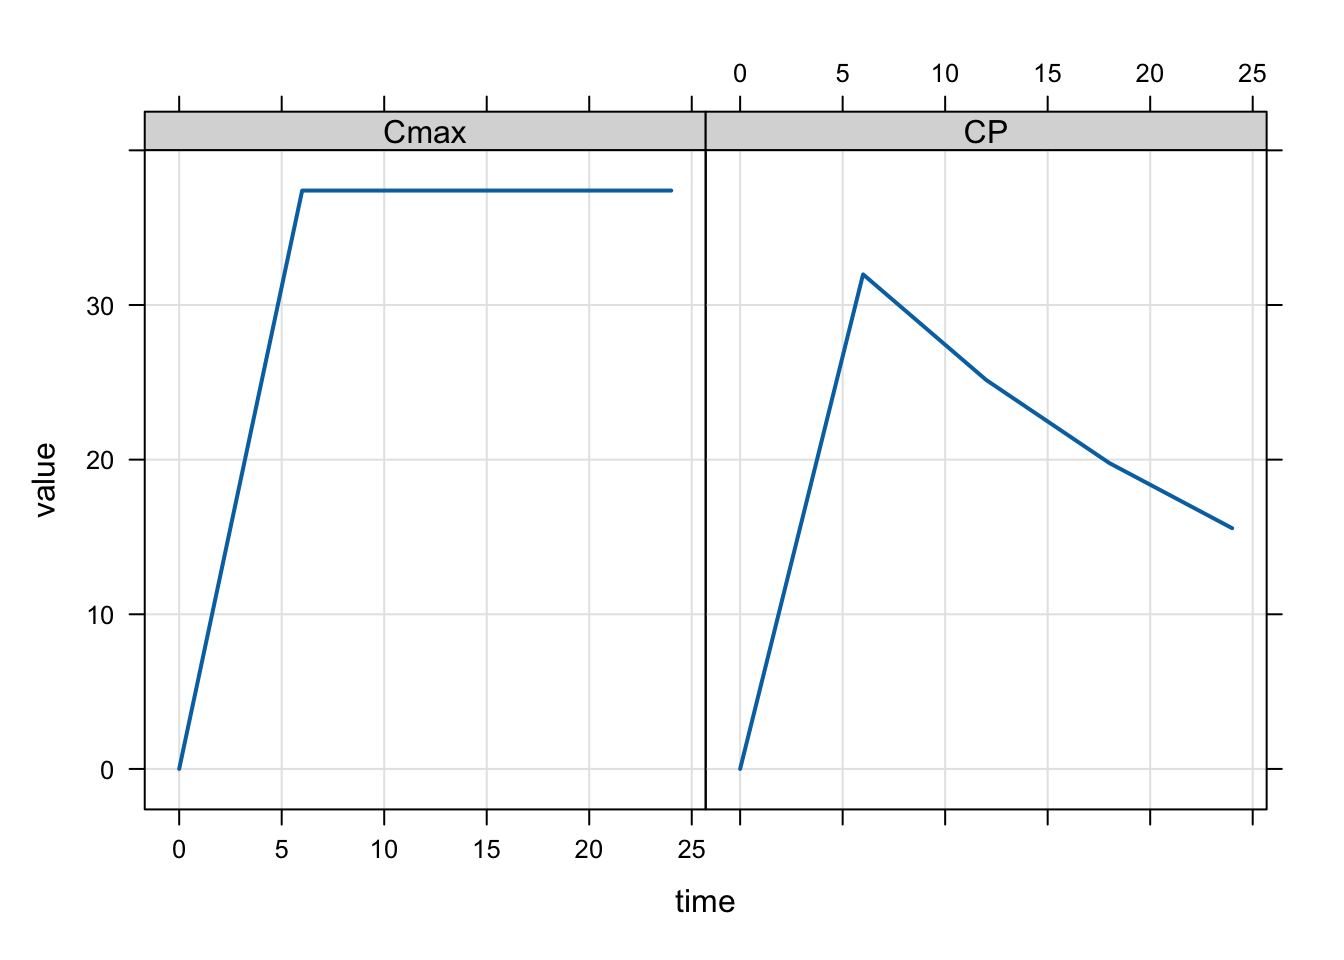
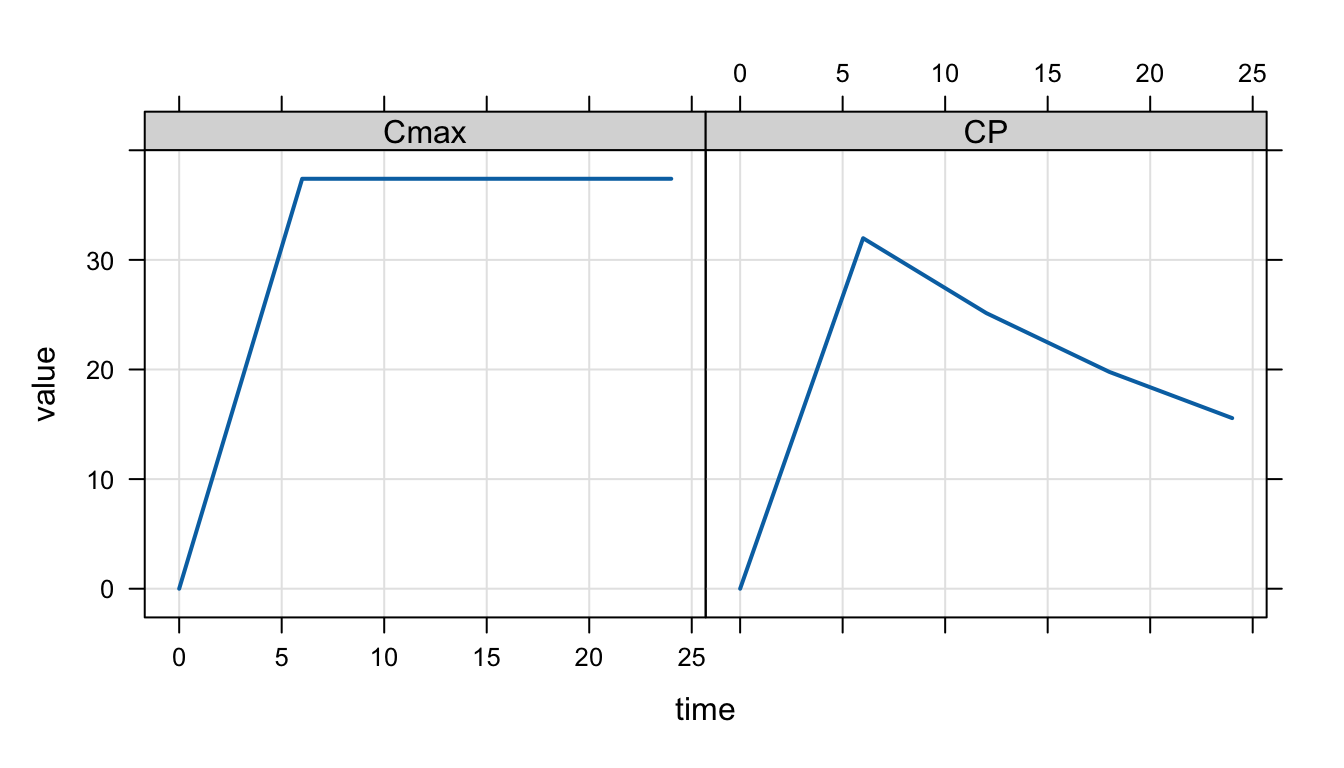
fix approx error calculation

diff --git a/docs/posts/true-cmax.html b/docs/posts/true-cmax.html
@@ -123,11 +123,11 @@ background: #097f5f;
 <link rel="stylesheet" href="../styles.css">
 <meta property="og:title" content="Simulate true Cmax with ODE – mrgsolve/blog">
 <meta property="og:description" content="This post outlines some considerations when simulating a true Cmax in your PK model using differential equations.">
-<meta property="og:image" content="https://mrgsolve.org/blog/images/preview.png">
+<meta property="og:image" content="true-cmax_files/figure-html/visualize-overshoot-1.png">
 <meta property="og:site_name" content="mrgsolve/blog">
 <meta name="twitter:title" content="Simulate true Cmax with ODE – mrgsolve/blog">
 <meta name="twitter:description" content="This post outlines some considerations when simulating a true Cmax in your PK model using differential equations.">
-<meta name="twitter:image" content="https://mrgsolve.org/blog/images/preview.png">
+<meta name="twitter:image" content="true-cmax_files/figure-html/visualize-overshoot-1.png">
 <meta name="twitter:card" content="summary_large_image">
 </head>
 
@@ -308,9 +308,9 @@ background: #097f5f;
 <span id="cb1-12"><a href="#cb1-12" aria-hidden="true" tabindex="-1"></a>}</span>
 <span id="cb1-13"><a href="#cb1-13" aria-hidden="true" tabindex="-1"></a></span>
 <span id="cb1-14"><a href="#cb1-14" aria-hidden="true" tabindex="-1"></a><span class="sc">$</span>DES</span>
-<span id="cb1-15"><a href="#cb1-15" aria-hidden="true" tabindex="-1"></a>CP <span class="ot">=</span> A2<span class="sc">/</span>V;</span>
+<span id="cb1-15"><a href="#cb1-15" aria-hidden="true" tabindex="-1"></a>CPode <span class="ot">=</span> A2<span class="sc">/</span>V;</span>
 <span id="cb1-16"><a href="#cb1-16" aria-hidden="true" tabindex="-1"></a></span>
-<span id="cb1-17"><a href="#cb1-17" aria-hidden="true" tabindex="-1"></a><span class="cf">if</span>(CP <span class="sc">&gt;</span> Cmax) Cmax <span class="ot">=</span> CP;</span>
+<span id="cb1-17"><a href="#cb1-17" aria-hidden="true" tabindex="-1"></a><span class="cf">if</span>(CPode <span class="sc">&gt;</span> Cmax) Cmax <span class="ot">=</span> CPode;</span>
 <span id="cb1-18"><a href="#cb1-18" aria-hidden="true" tabindex="-1"></a></span>
 <span id="cb1-19"><a href="#cb1-19" aria-hidden="true" tabindex="-1"></a>dxdt_A1 <span class="ot">=</span> <span class="sc">-</span>KA <span class="sc">*</span> A1;</span>
 <span id="cb1-20"><a href="#cb1-20" aria-hidden="true" tabindex="-1"></a>dxdt_A2 <span class="ot">=</span>  KA <span class="sc">*</span> A1 <span class="sc">-</span> (CL<span class="sc">/</span>V)<span class="sc">*</span>A2;</span>
@@ -336,14 +336,14 @@ background: #097f5f;
 <div class="sourceCode cell-code" id="cb3"><pre class="sourceCode r code-with-copy"><code class="sourceCode r"><span id="cb3-1"><a href="#cb3-1" aria-hidden="true" tabindex="-1"></a>dose <span class="ot">&lt;-</span> <span class="fu">ev</span>(<span class="at">amt =</span> <span class="dv">1000</span>, <span class="at">cmt =</span> <span class="dv">1</span>)</span></code><button title="Copy to Clipboard" class="code-copy-button"><i class="bi"></i></button></pre></div>
 </div>
 <p>On simulation, we can check the maximum value of <code>CP</code> (calculated only at output records) and <code>Cmax</code> (calculated with the code in <code>$DES</code>).</p>
-<div class="cell">
+<div class="cell" data-layout-align="center">
 <div class="sourceCode cell-code" id="cb4"><pre class="sourceCode r code-with-copy"><code class="sourceCode r"><span id="cb4-1"><a href="#cb4-1" aria-hidden="true" tabindex="-1"></a>out <span class="ot">&lt;-</span> <span class="fu">mrgsim</span>(mod, dose)</span>
 <span id="cb4-2"><a href="#cb4-2" aria-hidden="true" tabindex="-1"></a></span>
 <span id="cb4-3"><a href="#cb4-3" aria-hidden="true" tabindex="-1"></a><span class="fu">plot</span>(out, <span class="at">scales =</span> <span class="st">"same"</span>)</span></code><button title="Copy to Clipboard" class="code-copy-button"><i class="bi"></i></button></pre></div>
 <div class="cell-output-display">
-<div>
+<div class="quarto-figure quarto-figure-center">
 <figure class="figure">
-<p><img src="true-cmax_files/figure-html/unnamed-chunk-4-1.png" class="img-fluid figure-img" width="672"></p>
+<p><img src="true-cmax_files/figure-html/unnamed-chunk-4-1.png" class="img-fluid quarto-figure quarto-figure-center figure-img" width="672"></p>
 </figure>
 </div>
 </div>
@@ -378,20 +378,21 @@ background: #097f5f;
 </div>
 </div>
 <p>Here, we see good agreement with the approximated Cmax and the true Cmax.</p>
-<p>But we don’t <em>need</em> to go to these lengths; we can get a good approximation of Cmax just by reducing <code>delta</code> to a reasonably small value.</p>
+<p>But we don’t <em>need</em> to go to these lengths; we can get a good approximation of Cmax from <code>CP</code> just by reducing <code>delta</code> to a reasonably small value.</p>
 <div class="cell">
 <div class="sourceCode cell-code" id="cb13"><pre class="sourceCode r code-with-copy"><code class="sourceCode r"><span id="cb13-1"><a href="#cb13-1" aria-hidden="true" tabindex="-1"></a>out3 <span class="ot">&lt;-</span> <span class="fu">mrgsim</span>(mod, dose, <span class="at">delta =</span> <span class="fl">0.1</span>)</span>
 <span id="cb13-2"><a href="#cb13-2" aria-hidden="true" tabindex="-1"></a></span>
-<span id="cb13-3"><a href="#cb13-3" aria-hidden="true" tabindex="-1"></a>true <span class="ot">&lt;-</span> <span class="fu">max</span>(out3<span class="sc">$</span>Cmax)</span>
-<span id="cb13-4"><a href="#cb13-4" aria-hidden="true" tabindex="-1"></a>approx <span class="ot">&lt;-</span> <span class="fu">max</span>(out3<span class="sc">$</span>CP)</span>
-<span id="cb13-5"><a href="#cb13-5" aria-hidden="true" tabindex="-1"></a></span>
-<span id="cb13-6"><a href="#cb13-6" aria-hidden="true" tabindex="-1"></a>approx</span></code><button title="Copy to Clipboard" class="code-copy-button"><i class="bi"></i></button></pre></div>
+<span id="cb13-3"><a href="#cb13-3" aria-hidden="true" tabindex="-1"></a>approx <span class="ot">&lt;-</span> <span class="fu">max</span>(out3<span class="sc">$</span>CP)</span>
+<span id="cb13-4"><a href="#cb13-4" aria-hidden="true" tabindex="-1"></a></span>
+<span id="cb13-5"><a href="#cb13-5" aria-hidden="true" tabindex="-1"></a>approx</span></code><button title="Copy to Clipboard" class="code-copy-button"><i class="bi"></i></button></pre></div>
 <div class="cell-output cell-output-stdout">
 <pre><code>[1] 37.39822</code></pre>
 </div>
-<div class="sourceCode cell-code" id="cb15"><pre class="sourceCode r code-with-copy"><code class="sourceCode r"><span id="cb15-1"><a href="#cb15-1" aria-hidden="true" tabindex="-1"></a><span class="dv">100</span><span class="sc">*</span>(approx<span class="sc">-</span>true)<span class="sc">/</span>true</span></code><button title="Copy to Clipboard" class="code-copy-button"><i class="bi"></i></button></pre></div>
+<div class="sourceCode cell-code" id="cb15"><pre class="sourceCode r code-with-copy"><code class="sourceCode r"><span id="cb15-1"><a href="#cb15-1" aria-hidden="true" tabindex="-1"></a>true_bolus <span class="ot">&lt;-</span> <span class="fu">max</span>(out2<span class="sc">$</span>Cmax)</span>
+<span id="cb15-2"><a href="#cb15-2" aria-hidden="true" tabindex="-1"></a></span>
+<span id="cb15-3"><a href="#cb15-3" aria-hidden="true" tabindex="-1"></a><span class="dv">100</span> <span class="sc">*</span> (approx <span class="sc">-</span> true_bolus) <span class="sc">/</span> true_bolus</span></code><button title="Copy to Clipboard" class="code-copy-button"><i class="bi"></i></button></pre></div>
 <div class="cell-output cell-output-stdout">
-<pre><code>[1] -0.001707791</code></pre>
+<pre><code>[1] -0.001783364</code></pre>
 </div>
 </div>
 <p>But note this is likely problem-dependent: a smaller <code>delta</code> value may be required for a good approximation in certain problems. But I find this approach works well for most situations.</p>
@@ -421,12 +422,13 @@ background: #097f5f;
 <pre><code>      time       CP
 1 6.711409 35.08074</code></pre>
 </div>
+<div class="sourceCode cell-code" id="cb22"><pre class="sourceCode r code-with-copy"><code class="sourceCode r"><span id="cb22-1"><a href="#cb22-1" aria-hidden="true" tabindex="-1"></a>true_infusion <span class="ot">&lt;-</span> <span class="fu">max</span>(out<span class="sc">$</span>CP)</span></code><button title="Copy to Clipboard" class="code-copy-button"><i class="bi"></i></button></pre></div>
 </div>
 <p>But what happens when we assess Cmax with our code in <code>$DES</code>? We see that the reported Cmax is <em>higher</em> than the true Cmax.</p>
 <div class="cell">
-<div class="sourceCode cell-code" id="cb22"><pre class="sourceCode r code-with-copy"><code class="sourceCode r"><span id="cb22-1"><a href="#cb22-1" aria-hidden="true" tabindex="-1"></a>out <span class="ot">&lt;-</span> <span class="fu">mrgsim</span>(mod, <span class="at">event =</span> dose)</span>
-<span id="cb22-2"><a href="#cb22-2" aria-hidden="true" tabindex="-1"></a></span>
-<span id="cb22-3"><a href="#cb22-3" aria-hidden="true" tabindex="-1"></a><span class="fu">max</span>(out<span class="sc">$</span>Cmax) <span class="co"># Max concentration from $DES</span></span></code><button title="Copy to Clipboard" class="code-copy-button"><i class="bi"></i></button></pre></div>
+<div class="sourceCode cell-code" id="cb23"><pre class="sourceCode r code-with-copy"><code class="sourceCode r"><span id="cb23-1"><a href="#cb23-1" aria-hidden="true" tabindex="-1"></a>out <span class="ot">&lt;-</span> <span class="fu">mrgsim</span>(mod, <span class="at">event =</span> dose)</span>
+<span id="cb23-2"><a href="#cb23-2" aria-hidden="true" tabindex="-1"></a></span>
+<span id="cb23-3"><a href="#cb23-3" aria-hidden="true" tabindex="-1"></a><span class="fu">max</span>(out<span class="sc">$</span>Cmax) <span class="co"># Max concentration from $DES</span></span></code><button title="Copy to Clipboard" class="code-copy-button"><i class="bi"></i></button></pre></div>
 <div class="cell-output cell-output-stdout">
 <pre><code>[1] 38.51896</code></pre>
 </div>
@@ -434,18 +436,18 @@ background: #097f5f;
 <p>This happens because the ODE solver overshoots the end of the infusion and corrects this overshoot later; but our Cmax logging code can’t deal with the overshoot and retains the Cmax value that was falsely inflated during that overshoot.</p>
 <p>We can verify this is what is happening by reducing <code>hmax</code>, the maximum step size. When <code>hmax</code> is smaller, the ODE solver takes smaller steps, the overshoot won’t be as severe, and the simulated Cmax will be closer to the true value.</p>
 <div class="cell">
-<div class="sourceCode cell-code" id="cb24"><pre class="sourceCode r code-with-copy"><code class="sourceCode r"><span id="cb24-1"><a href="#cb24-1" aria-hidden="true" tabindex="-1"></a>out <span class="ot">&lt;-</span> <span class="fu">mrgsim</span>(mod, <span class="at">event =</span> dose, <span class="at">hmax =</span> <span class="fl">1e-3</span>)</span>
-<span id="cb24-2"><a href="#cb24-2" aria-hidden="true" tabindex="-1"></a></span>
-<span id="cb24-3"><a href="#cb24-3" aria-hidden="true" tabindex="-1"></a><span class="fu">max</span>(out<span class="sc">$</span>Cmax) <span class="co"># Max concentration from $DES</span></span></code><button title="Copy to Clipboard" class="code-copy-button"><i class="bi"></i></button></pre></div>
+<div class="sourceCode cell-code" id="cb25"><pre class="sourceCode r code-with-copy"><code class="sourceCode r"><span id="cb25-1"><a href="#cb25-1" aria-hidden="true" tabindex="-1"></a>out <span class="ot">&lt;-</span> <span class="fu">mrgsim</span>(mod, <span class="at">event =</span> dose, <span class="at">hmax =</span> <span class="fl">1e-3</span>)</span>
+<span id="cb25-2"><a href="#cb25-2" aria-hidden="true" tabindex="-1"></a></span>
+<span id="cb25-3"><a href="#cb25-3" aria-hidden="true" tabindex="-1"></a><span class="fu">max</span>(out<span class="sc">$</span>Cmax) <span class="co"># Max concentration from $DES</span></span></code><button title="Copy to Clipboard" class="code-copy-button"><i class="bi"></i></button></pre></div>
 <div class="cell-output cell-output-stdout">
 <pre><code>[1] 35.08344</code></pre>
 </div>
 </div>
 <p>Now, our Cmax is looking better. We can get even closer by lowering <code>delta</code> and <code>rtol</code></p>
 <div class="cell">
-<div class="sourceCode cell-code" id="cb26"><pre class="sourceCode r code-with-copy"><code class="sourceCode r"><span id="cb26-1"><a href="#cb26-1" aria-hidden="true" tabindex="-1"></a>out <span class="ot">&lt;-</span> <span class="fu">mrgsim</span>(mod, <span class="at">event =</span> dose, <span class="at">hmax =</span> <span class="fl">1e-3</span>, <span class="at">delta =</span> <span class="fl">1e-4</span>, <span class="at">rtol =</span> <span class="fl">1e-12</span>)</span>
-<span id="cb26-2"><a href="#cb26-2" aria-hidden="true" tabindex="-1"></a></span>
-<span id="cb26-3"><a href="#cb26-3" aria-hidden="true" tabindex="-1"></a><span class="fu">max</span>(out<span class="sc">$</span>Cmax) <span class="co"># Max concentration from $DES</span></span></code><button title="Copy to Clipboard" class="code-copy-button"><i class="bi"></i></button></pre></div>
+<div class="sourceCode cell-code" id="cb27"><pre class="sourceCode r code-with-copy"><code class="sourceCode r"><span id="cb27-1"><a href="#cb27-1" aria-hidden="true" tabindex="-1"></a>out <span class="ot">&lt;-</span> <span class="fu">mrgsim</span>(mod, <span class="at">event =</span> dose, <span class="at">hmax =</span> <span class="fl">1e-3</span>, <span class="at">delta =</span> <span class="fl">1e-4</span>, <span class="at">rtol =</span> <span class="fl">1e-12</span>)</span>
+<span id="cb27-2"><a href="#cb27-2" aria-hidden="true" tabindex="-1"></a></span>
+<span id="cb27-3"><a href="#cb27-3" aria-hidden="true" tabindex="-1"></a><span class="fu">max</span>(out<span class="sc">$</span>Cmax) <span class="co"># Max concentration from $DES</span></span></code><button title="Copy to Clipboard" class="code-copy-button"><i class="bi"></i></button></pre></div>
 <div class="cell-output cell-output-stdout">
 <pre><code>[1] 35.08085</code></pre>
 </div>
@@ -453,25 +455,24 @@ background: #097f5f;
 <p>Now, we’re getting much closer to the true Cmax value. Of course, there is a cost to this: all of these changes will cause the ODE solver to be less efficient and the simulation will take longer.</p>
 <p>Here’s what happens with the reasonable approximation we used earlier.</p>
 <div class="cell">
-<div class="sourceCode cell-code" id="cb28"><pre class="sourceCode r code-with-copy"><code class="sourceCode r"><span id="cb28-1"><a href="#cb28-1" aria-hidden="true" tabindex="-1"></a>out4 <span class="ot">&lt;-</span> <span class="fu">mrgsim</span>(mod, <span class="at">event =</span> dose, <span class="at">delta =</span> <span class="fl">0.1</span>)</span>
-<span id="cb28-2"><a href="#cb28-2" aria-hidden="true" tabindex="-1"></a></span>
-<span id="cb28-3"><a href="#cb28-3" aria-hidden="true" tabindex="-1"></a><span class="fu">max</span>(out4<span class="sc">$</span>CP) <span class="co"># Concentration from output records</span></span></code><button title="Copy to Clipboard" class="code-copy-button"><i class="bi"></i></button></pre></div>
+<div class="sourceCode cell-code" id="cb29"><pre class="sourceCode r code-with-copy"><code class="sourceCode r"><span id="cb29-1"><a href="#cb29-1" aria-hidden="true" tabindex="-1"></a>out4 <span class="ot">&lt;-</span> <span class="fu">mrgsim</span>(mod, <span class="at">event =</span> dose, <span class="at">delta =</span> <span class="fl">0.1</span>)</span>
+<span id="cb29-2"><a href="#cb29-2" aria-hidden="true" tabindex="-1"></a></span>
+<span id="cb29-3"><a href="#cb29-3" aria-hidden="true" tabindex="-1"></a><span class="fu">max</span>(out4<span class="sc">$</span>CP) <span class="co"># Concentration from output records</span></span></code><button title="Copy to Clipboard" class="code-copy-button"><i class="bi"></i></button></pre></div>
 <div class="cell-output cell-output-stdout">
 <pre><code>[1] 35.02874</code></pre>
 </div>
 </div>
 <p>The approximate Cmax is a little off the true, but still pretty reasonable.</p>
 <div class="cell">
-<div class="sourceCode cell-code" id="cb30"><pre class="sourceCode r code-with-copy"><code class="sourceCode r"><span id="cb30-1"><a href="#cb30-1" aria-hidden="true" tabindex="-1"></a>true <span class="ot">&lt;-</span> <span class="fu">max</span>(out<span class="sc">$</span>Cmax)</span>
-<span id="cb30-2"><a href="#cb30-2" aria-hidden="true" tabindex="-1"></a>approx <span class="ot">&lt;-</span> <span class="fu">max</span>(out<span class="sc">$</span>CP)</span>
-<span id="cb30-3"><a href="#cb30-3" aria-hidden="true" tabindex="-1"></a><span class="dv">100</span> <span class="sc">*</span> (approx <span class="sc">-</span> true) <span class="sc">/</span> true</span></code><button title="Copy to Clipboard" class="code-copy-button"><i class="bi"></i></button></pre></div>
+<div class="sourceCode cell-code" id="cb31"><pre class="sourceCode r code-with-copy"><code class="sourceCode r"><span id="cb31-1"><a href="#cb31-1" aria-hidden="true" tabindex="-1"></a>approx <span class="ot">&lt;-</span> <span class="fu">max</span>(out<span class="sc">$</span>CP)</span>
+<span id="cb31-2"><a href="#cb31-2" aria-hidden="true" tabindex="-1"></a><span class="dv">100</span> <span class="sc">*</span> (approx <span class="sc">-</span> true_infusion) <span class="sc">/</span> true_infusion</span></code><button title="Copy to Clipboard" class="code-copy-button"><i class="bi"></i></button></pre></div>
 <div class="cell-output cell-output-stdout">
-<pre><code>[1] -0.0004156614</code></pre>
+<pre><code>[1] -0.1482349</code></pre>
 </div>
 </div>
 <section id="get-cmax-from-the-end-of-the-infusion" class="level3" data-number="3.1">
 <h3 data-number="3.1" class="anchored" data-anchor-id="get-cmax-from-the-end-of-the-infusion"><span class="header-section-number">3.1</span> Get Cmax from the end of the infusion</h3>
-<p>As an alternative, we can get Cmax as the predicted concentration exactly at the end of the infusion. It is possible to do this in mrgsolve right now, but I’m not going to publish it here since there is no public api for doing it. If you really need it, contact me and I’ll help you out. I’ll be working on public api for testing for end of infusion and update the vignette when that gets rolled out. In the meantime, I’ll continue to use the reasonable approximation for most cases.</p>
+<p>As an alternative, we can get Cmax as the predicted concentration exactly at the end of the infusion and it seems like this should be the gold standard for an infusion. It is possible to do this in mrgsolve right now, but I’m not going to publish it here since there is no public api for doing it. If you really need it, contact me and I’ll help you out. I’ll be working on public api for testing for end of infusion and update the vignette when that gets rolled out.</p>
 
 
 </section>

diff --git a/docs/index.html b/docs/index.html
@@ -276,10 +276,10 @@ window.Quarto = {
 
 <div class="quarto-listing quarto-listing-container-default" id="listing-listing">
 <div class="list quarto-listing-default">
-<div class="quarto-post image-right" data-index="0" data-categories="Cmax,ODE" data-listing-date-sort="1731567600000" data-listing-file-modified-sort="1731680610969" data-listing-date-modified-sort="NaN" data-listing-reading-time-sort="6" data-listing-word-count-sort="1066">
+<div class="quarto-post image-right" data-index="0" data-categories="Cmax,ODE" data-listing-date-sort="1731567600000" data-listing-file-modified-sort="1731683306373" data-listing-date-modified-sort="NaN" data-listing-reading-time-sort="6" data-listing-word-count-sort="1095">
 <div class="thumbnail">
 <p><a href="./posts/true-cmax.html" class="no-external"></a></p><a href="./posts/true-cmax.html" class="no-external">
-<p class="card-img-top"><img src="posts/true-cmax_files/figure-html/unnamed-chunk-4-1.png"  class="thumbnail-image card-img"/></p>
+<p><img loading="lazy" src="./posts/true-cmax_files/figure-html/visualize-overshoot-1.png" class="thumbnail-image"></p>
 </a><p><a href="./posts/true-cmax.html" class="no-external"></a></p>
 </div>
 <div class="body">
